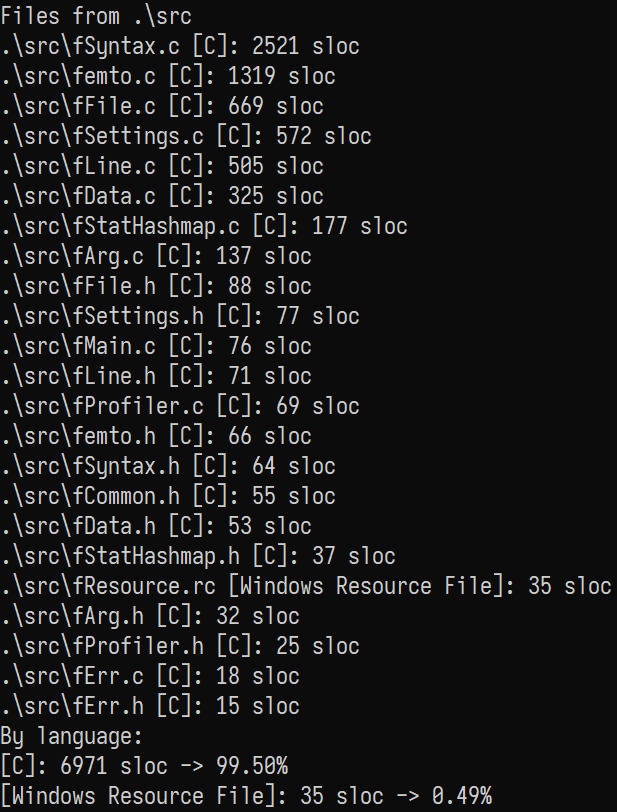
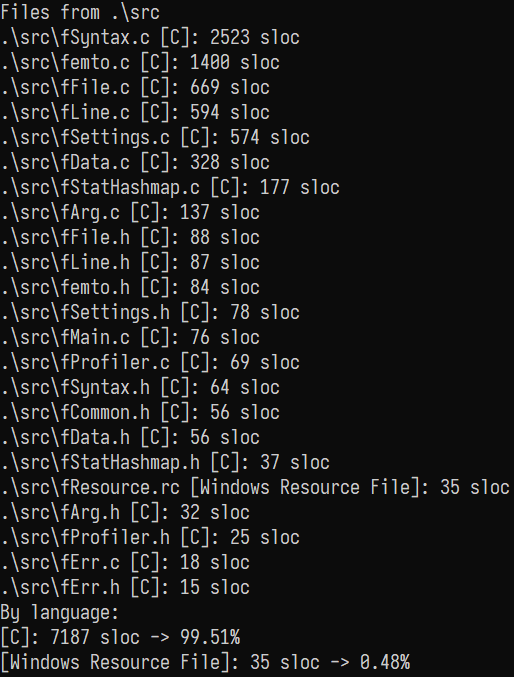
Update sloc

Changed region(s): [[0.0, 0.0, 0.9961, 0.9926], [0.6537, 0.9616, 0.8093, 0.9926], [0.5914, 0.2482, 0.6537, 0.3102]]

diff --git a/README.md b/README.md
@@ -13,7 +13,7 @@ It is also written in vanilla C & Win32 Console API - it's designed to be used s
 It has been compiled with MinGW GCC.
 
 Currently, my other tool [slocWin32](https://github.com/makuke1234/slocWin32)
-reports ~7000 source code lines (excluding whitespace, comments & [jsonlite2](https://github.com/makuke1234/jsonlite2) library):
+reports ~7200 source code lines (excluding whitespace, comments & [jsonlite2](https://github.com/makuke1234/jsonlite2) library):
 
 ![SLOC](./images/sloc.png)
 
